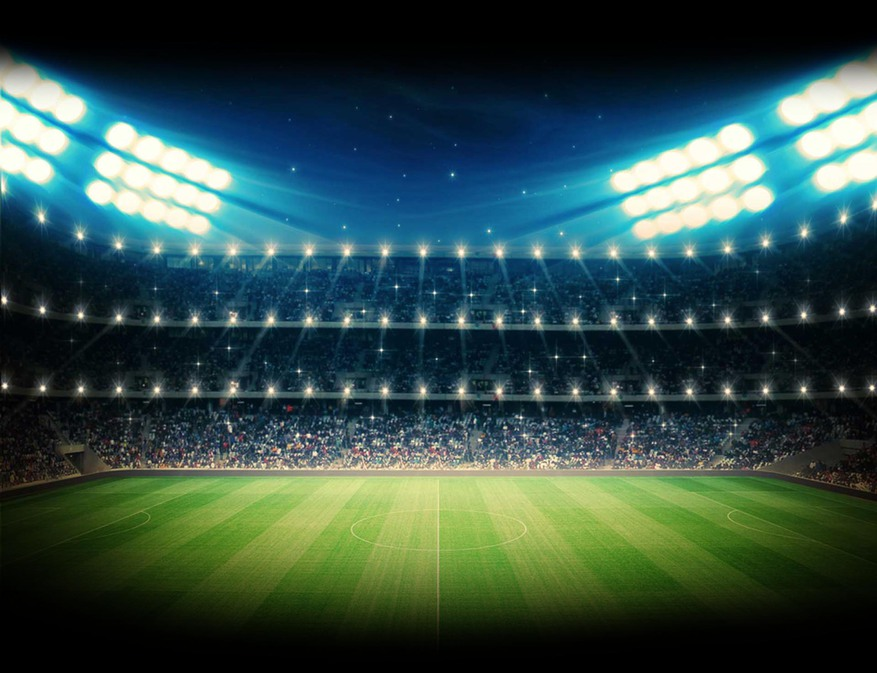
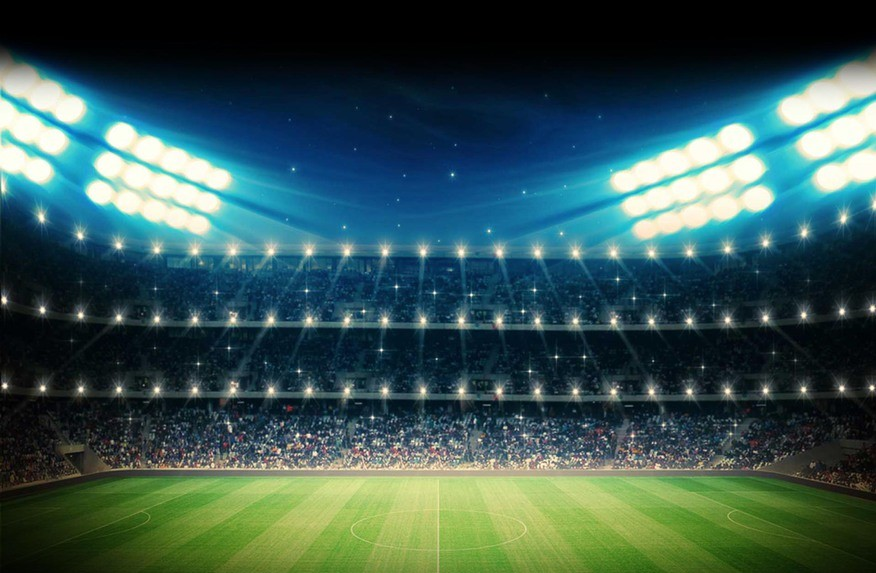
background definitivo, programa classes criado para ser importado e criar todas as classes necessárias

diff --git a/main.py b/main.py
@@ -1,10 +1,12 @@
 #Head Soccer Game - Vitor, Gabriel, Pedro e Manzanna
+#Programa main que rodará tudo
+
 import pygame
 
 def main():
     pygame.init()
     bg = pygame.image.load('background2.jpeg')
-    tela = pygame.display.set_mode([803, 673])
+    tela = pygame.display.set_mode([876, 573])
     pygame.display.set_caption('Head Soccer Game')
 
     relogio = pygame.time.Clock()
@@ -28,7 +30,7 @@ def main():
 
 
 
-#Fecha a janela e finaliza o jogo
+    #Fecha a janela e finaliza o jogo
     pygame.quit()
 
 
